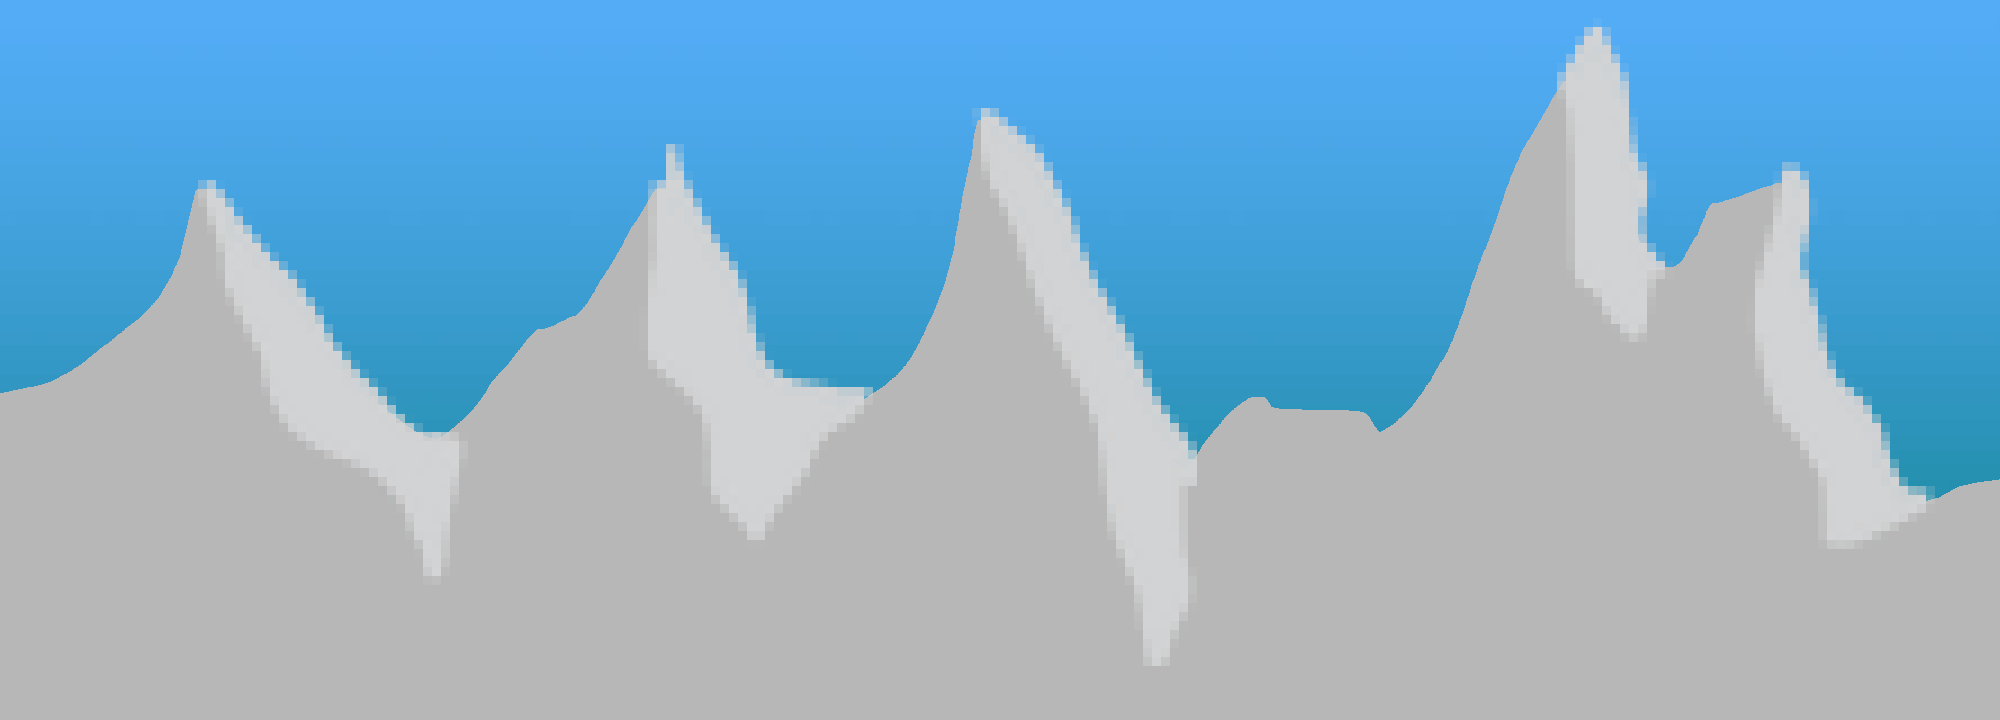
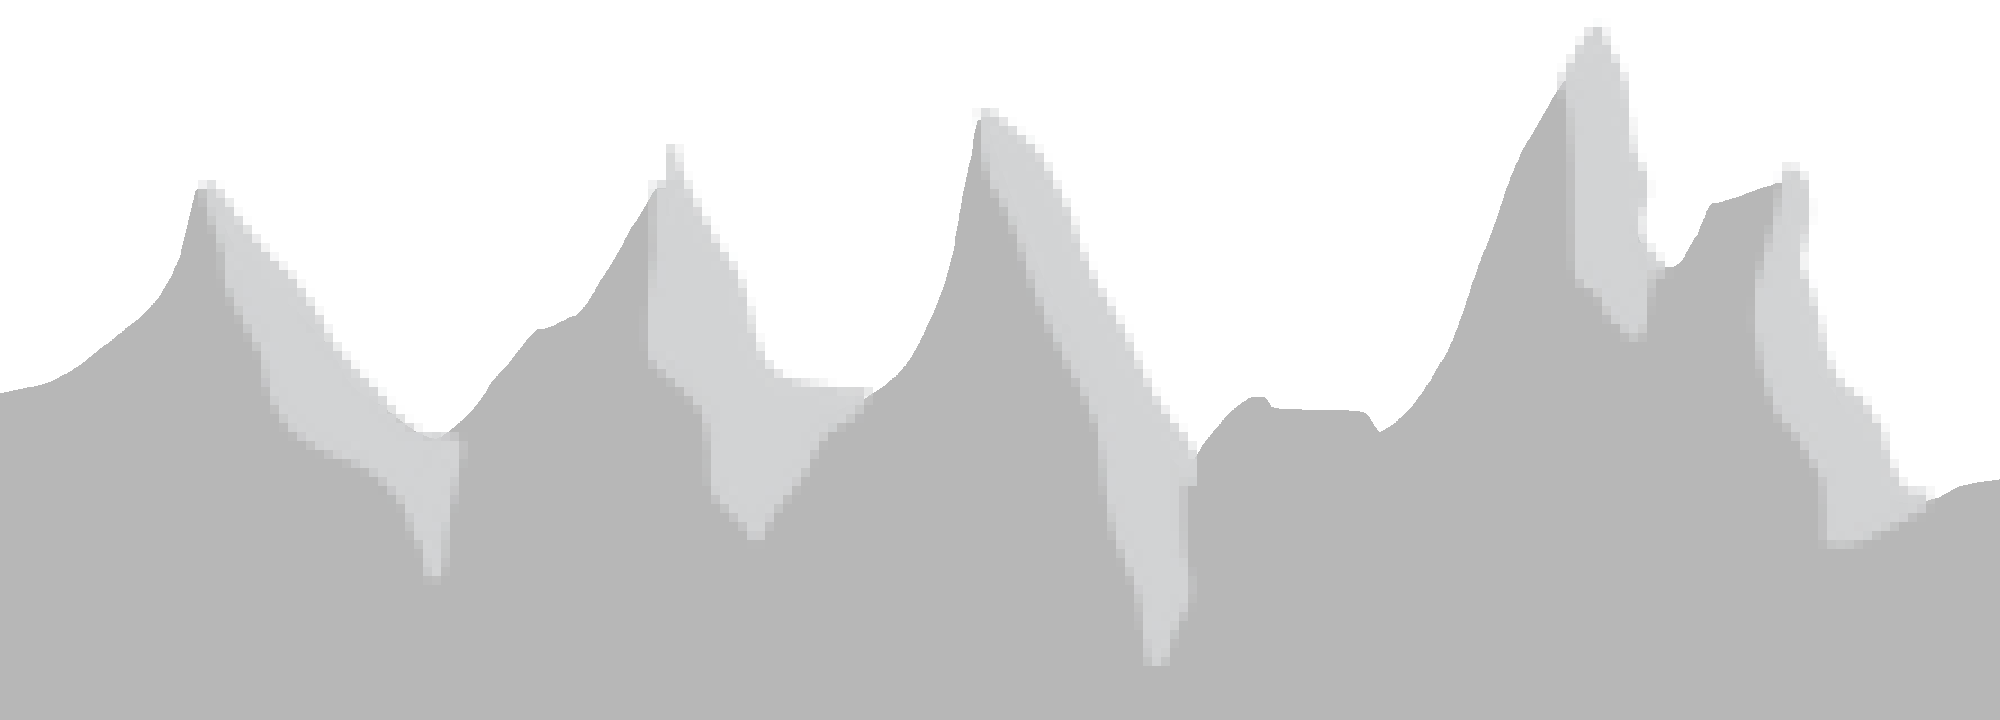
Transición día/noche

diff --git a/core/src/mx/itesm/eko/FondoDinamico.java b/core/src/mx/itesm/eko/FondoDinamico.java
@@ -8,20 +8,29 @@ public class FondoDinamico{
     private Objeto capa2;
     private Objeto capa3;
     private Objeto capa4;
+    private Objeto capaTiempo;
+    private Objeto capaSol;
+
 
     private Texture texturaCapa1;
     private Texture texturaCapa2;
     private Texture texturaCapa3;
     private Texture texturaCapa4;
+    private Texture texturaCapaTiempo;
+    private Texture texturaCapaSol;
     public FondoDinamico(String assets,float x,float y) {
         texturaCapa1=new Texture("Fondos/fondo"+assets+"1.png");
         texturaCapa2=new Texture("Fondos/fondo"+assets+"2.png");
         texturaCapa3=new Texture("Fondos/fondo"+assets+"3.png");
         texturaCapa4=new Texture("Fondos/fondo"+assets+"4.png");
-        capa1=new Objeto(texturaCapa1,x,y);
-        capa2=new Objeto(texturaCapa2,x,y);
-        capa3=new Objeto(texturaCapa3,x,y);
-        capa4=new Objeto(texturaCapa4,x,y);
+        texturaCapaTiempo=new Texture("Fondos/fondo"+assets+"Tiempo.png");
+        texturaCapaSol=new Texture("Fondos/fondo"+assets+"Sol.png");
+        capa1=new Objeto(texturaCapa1,x,0);
+        capa2=new Objeto(texturaCapa2,x,0);
+        capa3=new Objeto(texturaCapa3,x,0);
+        capa4=new Objeto(texturaCapa4,x,0);
+        capaTiempo=new Objeto(texturaCapaTiempo,0,y);
+        capaSol=new Objeto(texturaCapaSol,0,y/2);
     }
 
     public void renderCapa1(SpriteBatch batch){
@@ -36,6 +45,12 @@ public class FondoDinamico{
     public void renderCapa4(SpriteBatch batch){
         capa4.sprite.draw(batch);
     }
+    public void renderCapaTiempo(SpriteBatch batch){
+        capaTiempo.sprite.draw(batch);
+    }
+    public void renderCapaSol(SpriteBatch batch){
+        capaSol.sprite.draw(batch);
+    }
 
 
 
@@ -46,8 +61,20 @@ public class FondoDinamico{
         capa4.sprite.setX(capa4.sprite.getX()+velocidad);
     }
 
+    public void moverCapasVertical(float velocidad){
+        capaTiempo.sprite.setY(capaTiempo.sprite.getY()+velocidad);
+        capaSol.sprite.setY(capaSol.sprite.getY()+velocidad*0.5f);
+    }
+
     public float getWidth(){
         return capa1.sprite.getWidth();
+    }
+
+    public float getHeightTiempo(){
+        return capaTiempo.sprite.getHeight();
+    }
+
+    public float getHeightSol(){return capaSol.sprite.getHeight();
     }
 
     public void setXCapa1(float x){
@@ -66,6 +93,14 @@ public class FondoDinamico{
         capa4.sprite.setX(x);
     }
 
+    public void setYCapaTiempo(float y){
+        capaTiempo.sprite.setY(y);
+    }
+
+    public void setYCapaSol(float y){
+        capaSol.sprite.setY(y);
+    }
+
     public float getXCapa1(){
         return capa1.sprite.getX();
     }
@@ -80,5 +115,13 @@ public class FondoDinamico{
 
     public float getXCapa4(){
         return capa4.sprite.getX();
+    }
+
+    public float getYCapaTiempo(){
+        return capaTiempo.sprite.getY();
+    }
+
+    public float getYCapaSol(){
+        return capaSol.sprite.getY();
     }
 }

diff --git a/core/src/mx/itesm/eko/PantallaJuego.java b/core/src/mx/itesm/eko/PantallaJuego.java
@@ -97,10 +97,10 @@ class PantallaJuego extends PantallaAbstracta {
 
     private void createFondo() {
         fondo1=new FondoDinamico(assets,0,0);
-        fondo2=new FondoDinamico(assets,fondo1.getWidth(),0);
+        fondo2=new FondoDinamico(assets,fondo1.getWidth(),fondo1.getHeightTiempo());
     }
 
-    private void createVidas() {vidas = new Vidas(ANCHO*0.12f,0.9f*ALTO,3,assets);
+    private void createVidas() {vidas = new Vidas(ANCHO*0.12f,0.9f*ALTO,999,assets);
     }
 
     private void cargarMusica() {
@@ -177,6 +177,11 @@ class PantallaJuego extends PantallaAbstracta {
     }
 
     private void renderFondo(SpriteBatch batch) {
+        fondo1.renderCapaTiempo(batch);
+        fondo2.renderCapaTiempo(batch);
+        fondo1.renderCapaSol(batch);
+        fondo2.renderCapaSol(batch);
+
         fondo1.renderCapa1(batch);
         fondo2.renderCapa1(batch);
         fondo1.renderCapa2(batch);
@@ -190,6 +195,26 @@ class PantallaJuego extends PantallaAbstracta {
     private void moverFondo(float delta) {
         fondo1.moverCapas(-delta*1000);
         fondo2.moverCapas(-delta*1000);
+        fondo1.moverCapasVertical(-delta*100);
+        fondo2.moverCapasVertical(-delta*100);
+
+        if (fondo1.getYCapaTiempo()<-fondo1.getHeightTiempo()){
+            fondo1.setYCapaTiempo(fondo2.getYCapaTiempo()+fondo2.getHeightTiempo());
+        }
+        if (fondo2.getYCapaTiempo()<-fondo2.getHeightTiempo()){
+            fondo2.setYCapaTiempo(fondo1.getYCapaTiempo()+fondo1.getHeightTiempo());
+        }
+
+        if (fondo1.getYCapaSol()<-fondo1.getHeightSol()){
+            fondo1.setYCapaSol(fondo2.getYCapaSol()+fondo2.getHeightSol());
+        }
+        if (fondo2.getYCapaSol()<-fondo2.getHeightSol()){
+            fondo2.setYCapaSol(fondo1.getYCapaSol()+fondo1.getHeightSol());
+        }
+
+
+
+
         if (fondo1.getXCapa1()<-fondo1.getWidth()){
             fondo1.setXCapa1(fondo2.getXCapa1()+fondo2.getWidth());
         }
